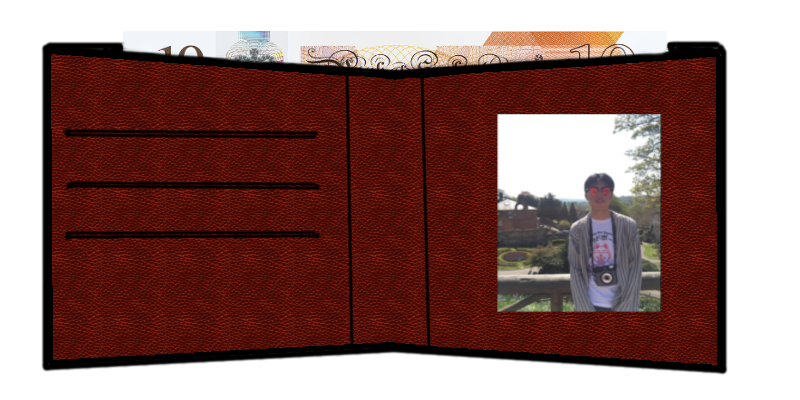
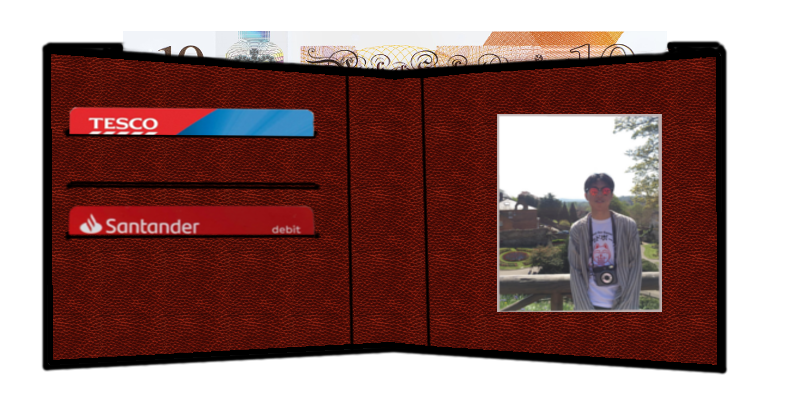
Added wallet to contact page

diff --git a/contact.html b/contact.html
@@ -22,7 +22,17 @@
     </a>
     <hr />
     <div id="walletContainer">
-        <img src="Images/wallet.png" />
+        <img src="Images/wallet.png" />   
+    </div>
+    <div id="cardContainer">
+        <img src="Images/contactcardhead.png" />
+    </div>
+    <div id="cardContainer">
+        <script src="Javascript/javascript.js"></script>
+        <img id="hovercard" onclick="OpenSocietyInfo();" src="Images/contactcardheadhover.png" />
+    </div>
+    <div id="contactcard">
+        <img src="Images/contactcard.png" />
     </div>
     <footer class="footer">
         <small>Copyright &copy; Sparta Global 2021; <cite>by Tak Li</cite></small>

diff --git a/style.css b/style.css
@@ -362,14 +362,33 @@ cursor:pointer;
 }
 
 #walletContainer{
-    position:relative;
+    position:absolute;
     width:800px;
     left:50%;
-    top:70%;
-
+    top:20%;
 }
 #walletContainer img {
     margin-top: 10%;
     height: 500px;
     margin-left: -450px;
+}
+#cardContainer {
+    position: absolute;
+    width: 360px;
+    top: 46%;
+    left: 50%;
+    margin-left: -370px;
+}
+#cardContainer img {
+    margin-top: 10%;
+    height: 62px; 
+}
+#hovercard{
+    opacity:0;
+}
+#cardContainer:hover #hovercard{
+    opacity:1;
+}
+#contactcard{
+    opacity:0;
 }
